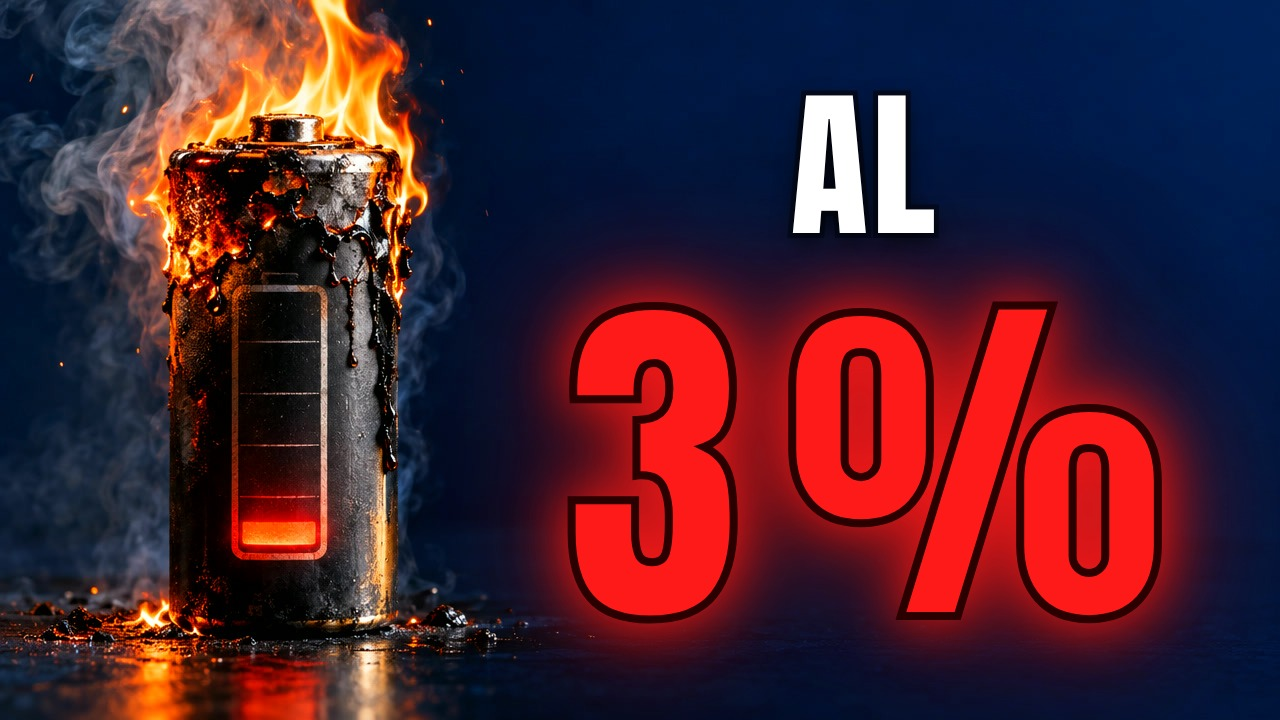
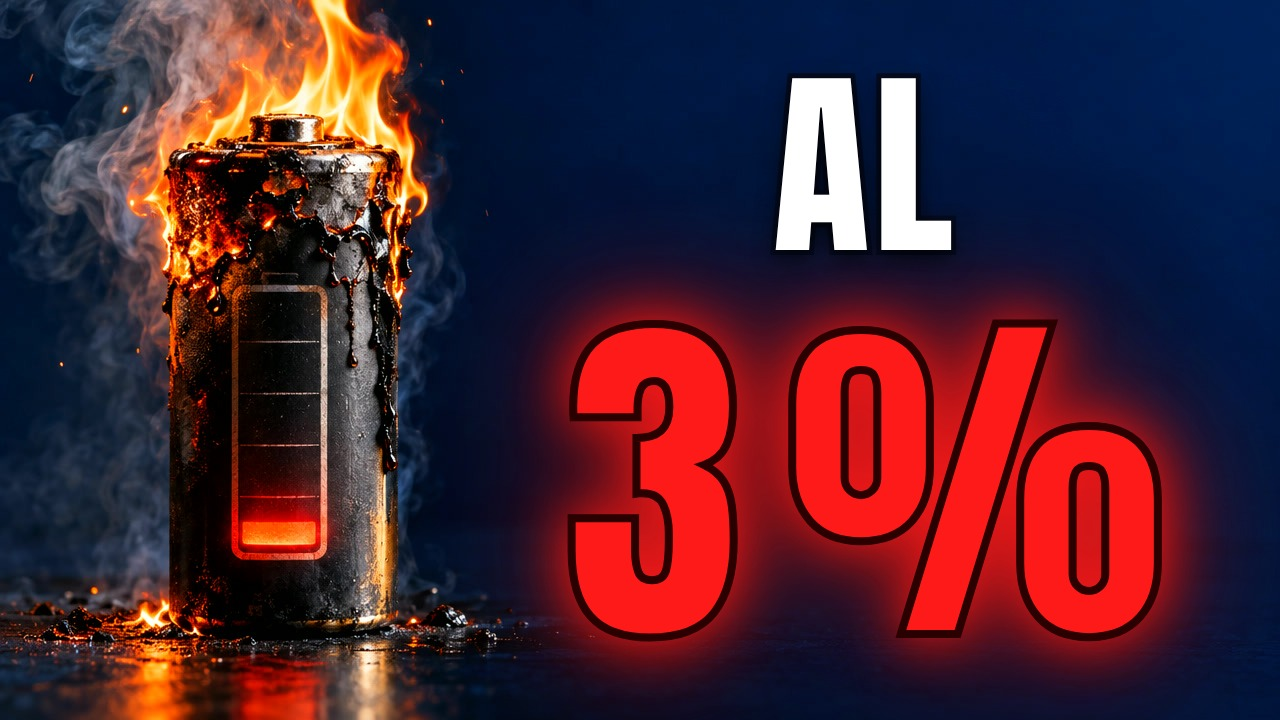
Miniatura 3: «AL» más grande
Claude-Session: https://claude.ai/code/session_01SpKRvRHgkYxyAMdM2ogfpw

Changed region(s): [[0.4375, 0.0917, 0.9375, 0.9472], [0.4375, 0.7639, 0.5938, 0.9472]]

diff --git a/src/burnout/Thumbs2.tsx b/src/burnout/Thumbs2.tsx
@@ -140,7 +140,7 @@ const O3C = () => (
 const VIVID_RED = '#FF1A1A';
 const O3D = () => (
   <div style={AREA}>
-    <div style={{position: 'relative', zIndex: 2, marginBottom: 64, fontSize: 160, color: '#FFFFFF', letterSpacing: 4, paintOrder: 'stroke fill', WebkitTextStroke: '10px #050b1f', textShadow: '0 8px 22px rgba(0,0,0,0.75)'}}>AL</div>
+    <div style={{position: 'relative', zIndex: 2, marginBottom: 64, fontSize: 200, color: '#FFFFFF', letterSpacing: 4, paintOrder: 'stroke fill', WebkitTextStroke: '10px #050b1f', textShadow: '0 8px 22px rgba(0,0,0,0.75)'}}>AL</div>
     <div style={{fontSize: 360, color: VIVID_RED, WebkitTextStroke: '8px #2a0000', filter: `drop-shadow(0 0 28px ${VIVID_RED}) drop-shadow(0 0 60px rgba(255,26,26,0.6)) drop-shadow(0 10px 20px rgba(0,0,0,0.7))`}}>{`3${NB}%`}</div>
   </div>
 );
